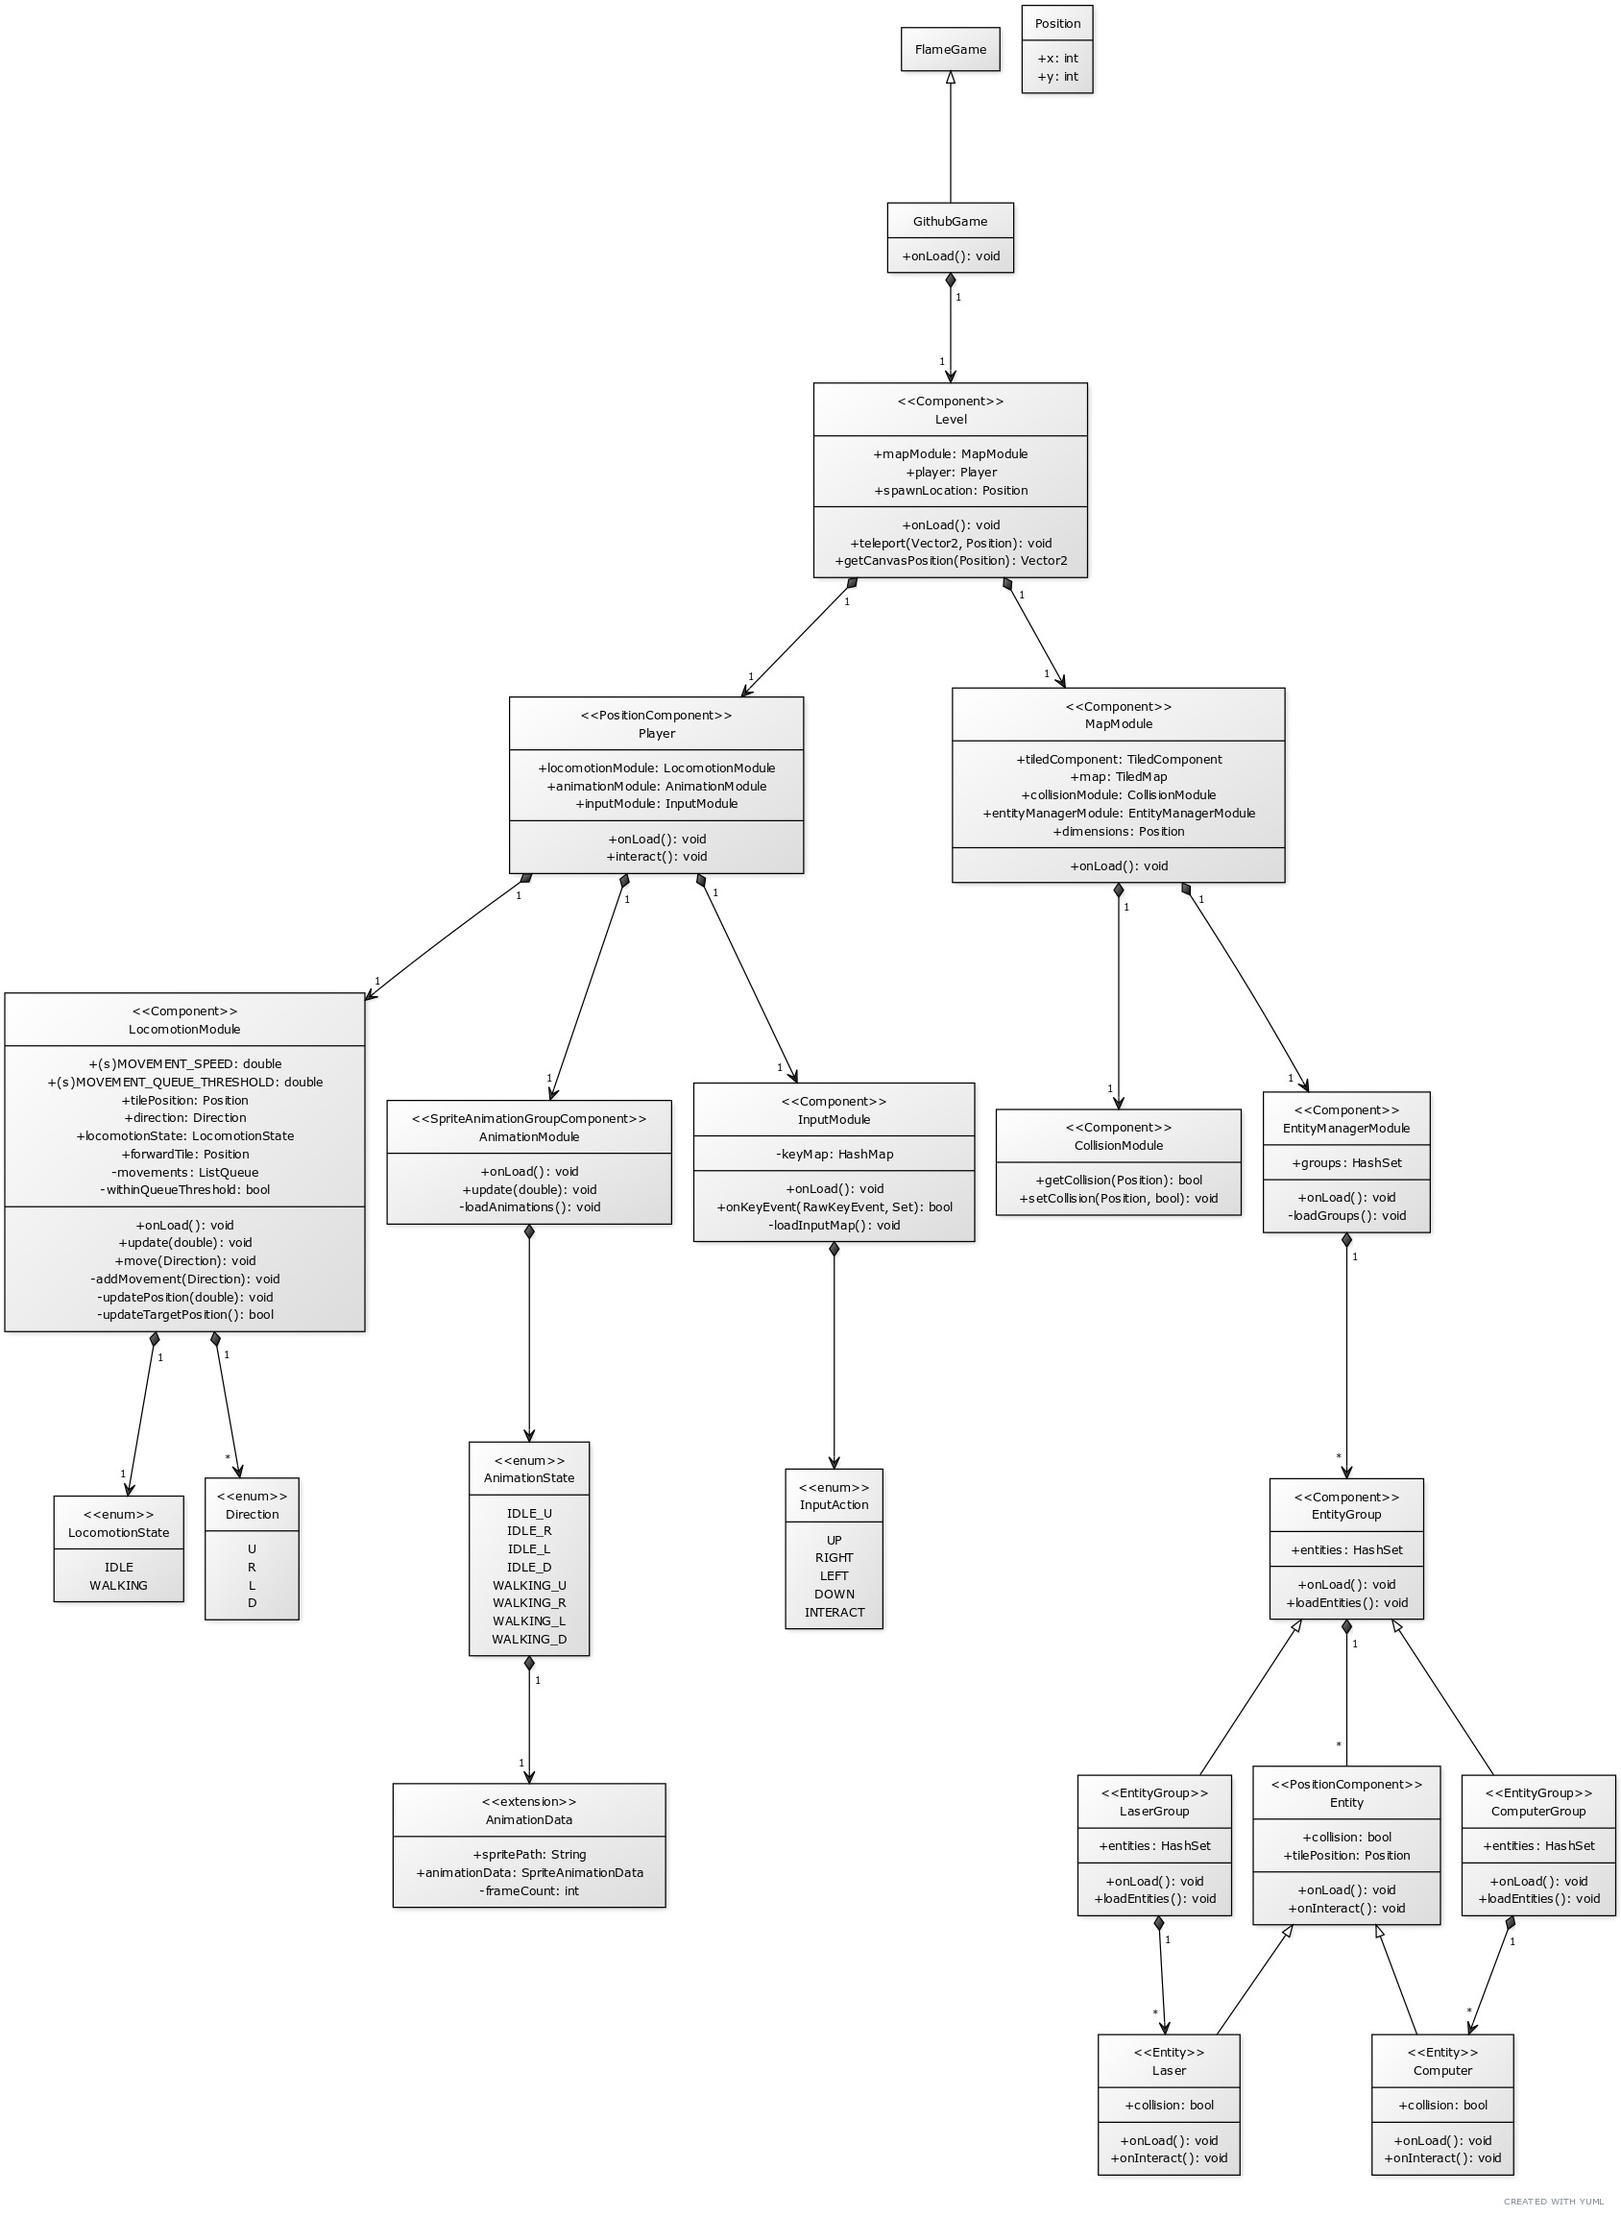
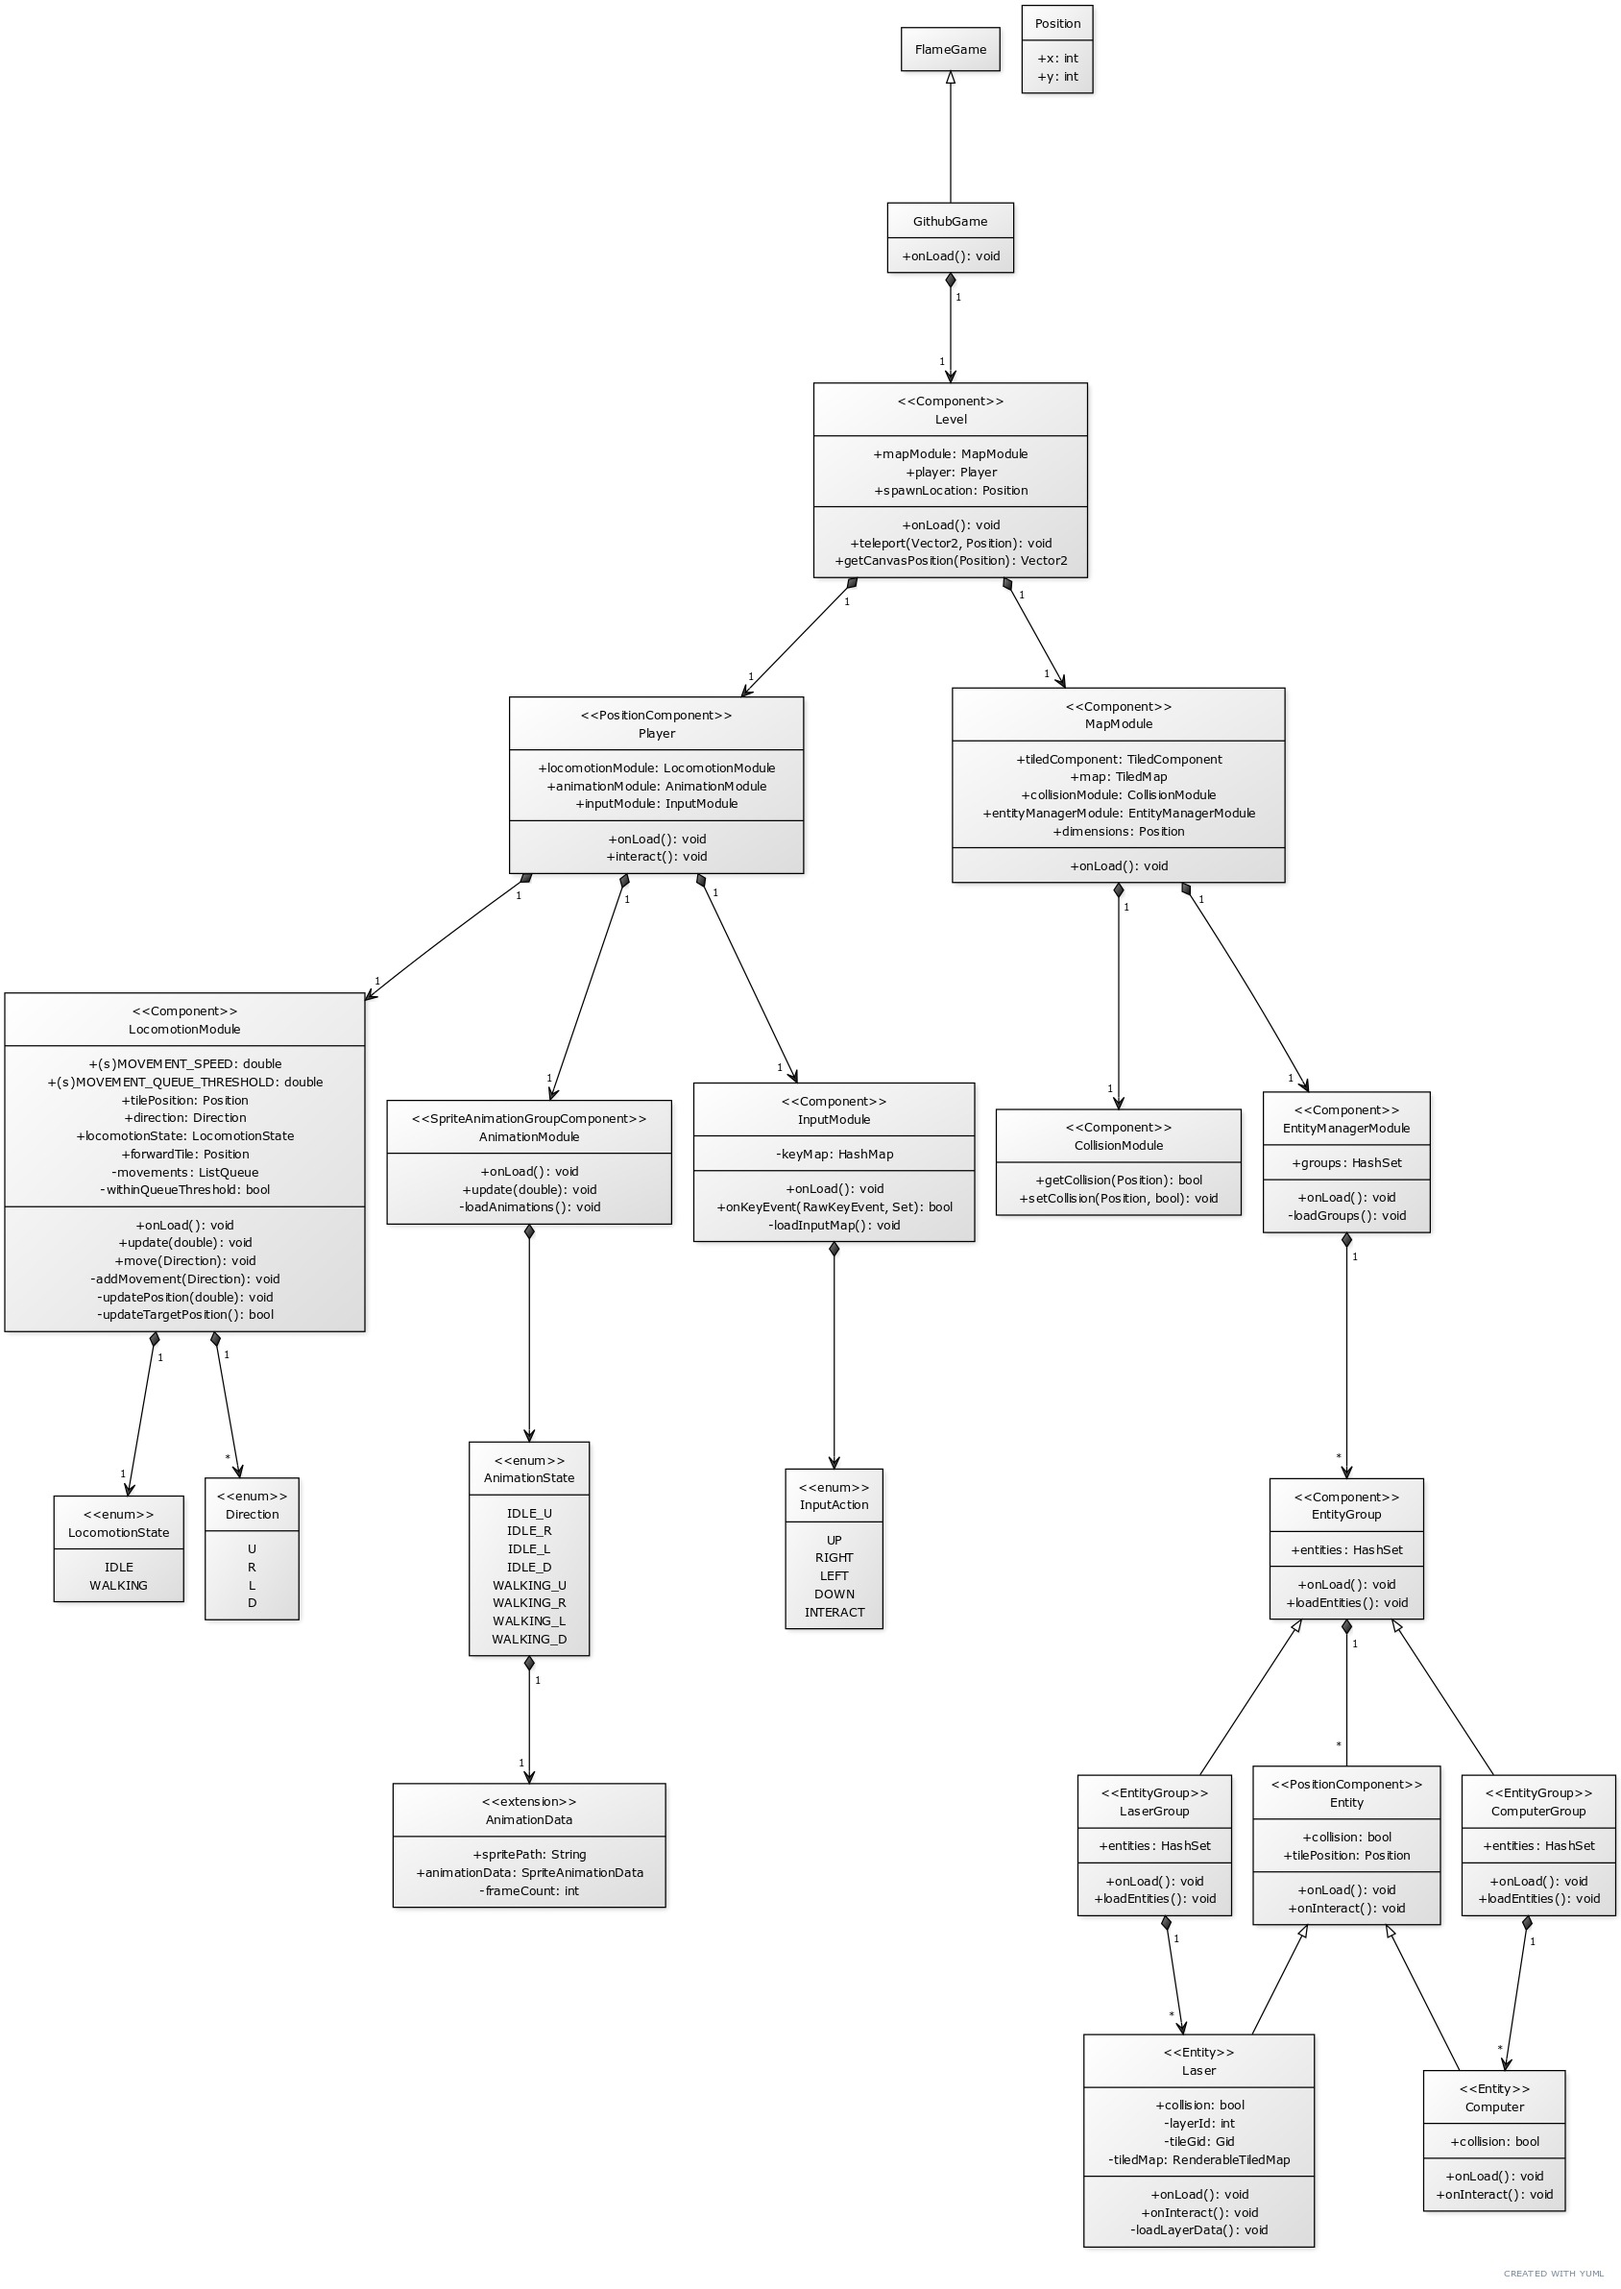
Laser loading

diff --git a/lib/entities/individuals/laser.dart b/lib/entities/individuals/laser.dart
@@ -1,12 +1,20 @@
+import 'package:tiled/tiled.dart';
+import 'package:flame_tiled/flame_tiled.dart';
 import 'package:github_game/entity.dart';
 import 'package:github_game/level.dart';
 
 class Laser extends Entity {
+  late final int _layerId;
+  late final Gid _tileGid;
+  late final RenderableTiledMap _tiledMap;
+
   Laser(Position tilePosition) : super(tilePosition);
 
   @override
   Future<void> onLoad() async {
     await super.onLoad();
+
+    _loadLayerData();
 
     collision = true;
   }
@@ -14,5 +22,21 @@ class Laser extends Entity {
   @override
   void onInteract() {
     print("Interacted with laser at ($tilePosition)");
+  }
+
+  void _loadLayerData() {
+    _layerId = mapModule.map.layerByName("Lasers").id ??
+        () {
+          throw StateError(
+              "This tile map does not have a layer titled 'Lasers'");
+        }.call();
+
+    _tiledMap = mapModule.tiledComponent.tileMap;
+    _tileGid = _tiledMap.getTileData(
+            layerId: _layerId, x: tilePosition.x, y: tilePosition.y) ??
+        () {
+          throw StateError(
+              "There is no sprite at position $tilePosition on the layer titled 'Lasers'");
+        }.call();
   }
 }

diff --git a/lib/entities/groups/laser_group.dart b/lib/entities/groups/laser_group.dart
@@ -1,7 +1,17 @@
 import 'package:github_game/entities/entity_group.dart';
 import 'package:github_game/entities/individuals/laser.dart';
+import 'package:github_game/level.dart';
 
 class LaserGroup extends EntityGroup<Laser> {
   @override
-  void loadEntities() {}
+  void loadEntities() {
+    entities.add(Laser(Position(5, 0)));
+    entities.add(Laser(Position(6, 0)));
+    entities.add(Laser(Position(7, 0)));
+    entities.add(Laser(Position(8, 0)));
+    entities.add(Laser(Position(5, 1)));
+    entities.add(Laser(Position(6, 1)));
+    entities.add(Laser(Position(7, 1)));
+    entities.add(Laser(Position(8, 1)));
+  }
 }

diff --git a/lib/modules/level/map/entity_manager_module.dart b/lib/modules/level/map/entity_manager_module.dart
@@ -1,6 +1,7 @@
 import 'dart:collection';
 import 'package:flame/components.dart';
 import 'package:github_game/entities/entity_group.dart';
+import 'package:github_game/entities/groups/laser_group.dart';
 
 /// This module is responsible for handling groups of entities in the level.
 class EntityManagerModule extends Component {
@@ -21,5 +22,7 @@ class EntityManagerModule extends Component {
   }
 
   /// Loads all entity groups and adds them to the set.
-  void _loadGroups() {}
+  void _loadGroups() {
+    _groups.add(LaserGroup());
+  }
 }
